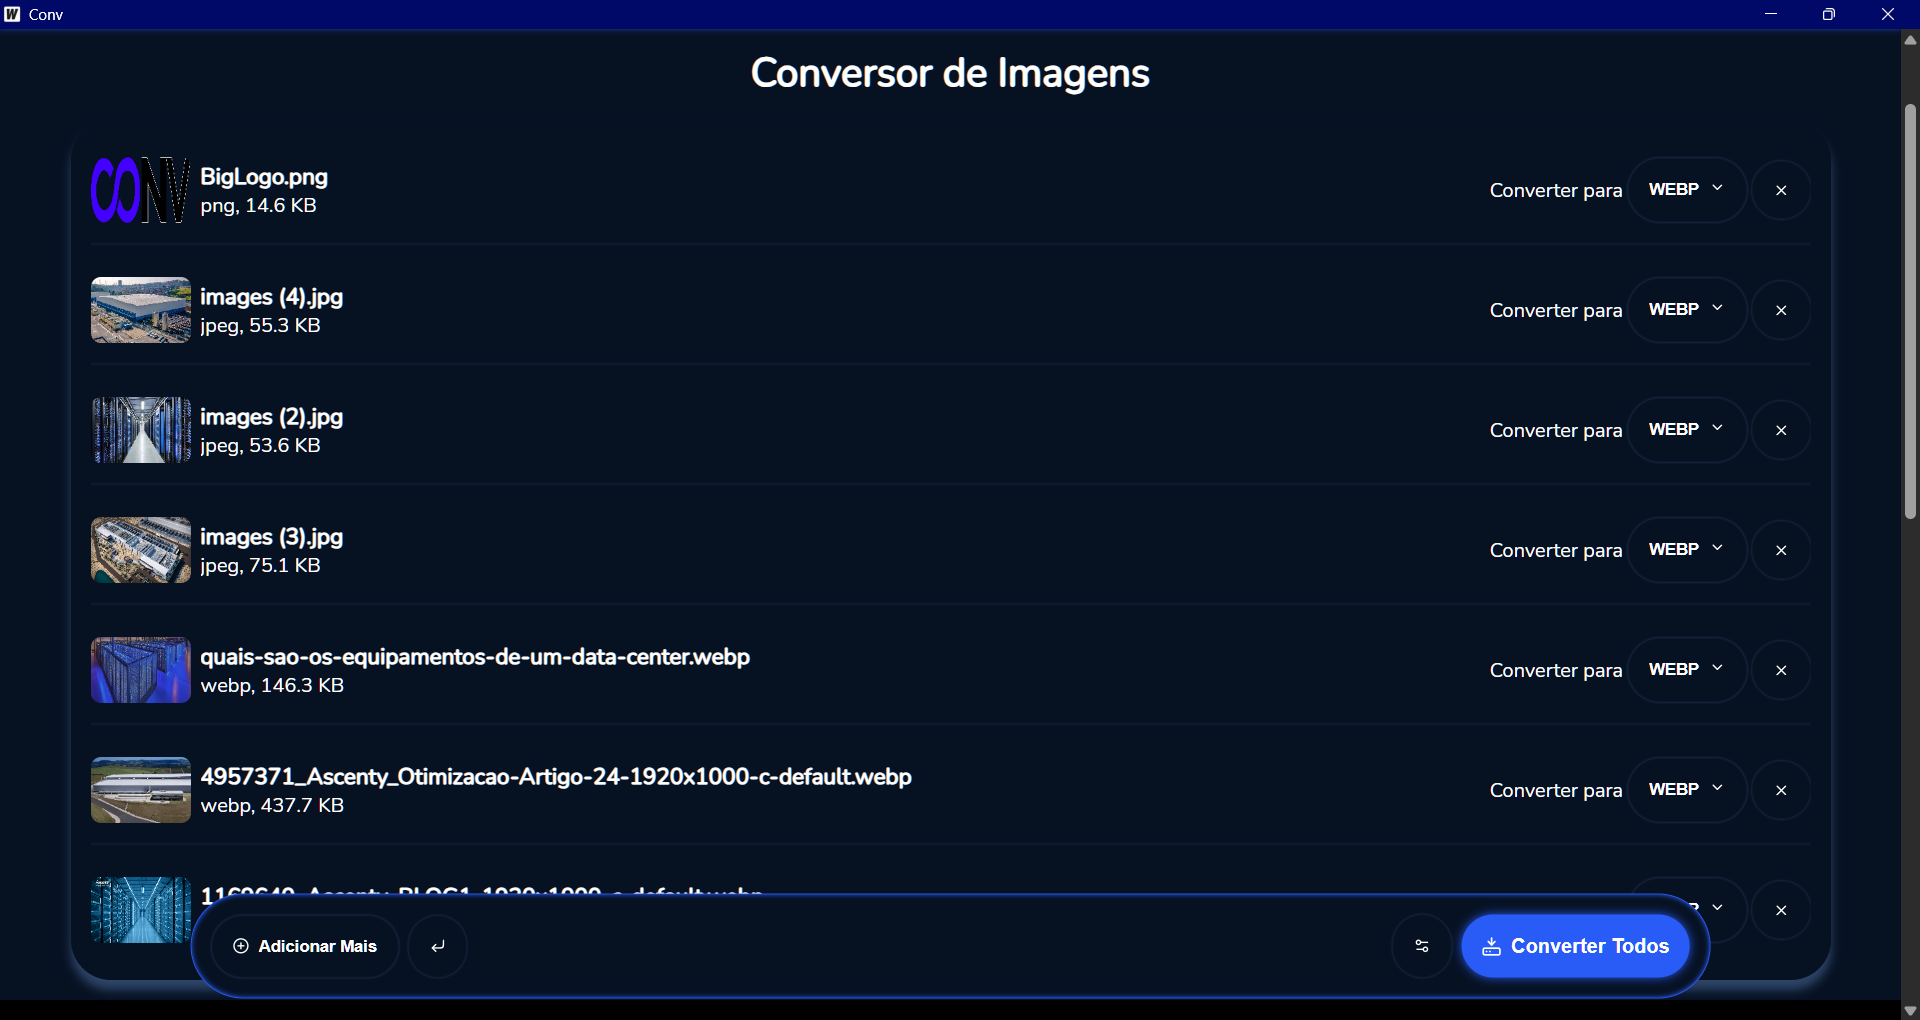
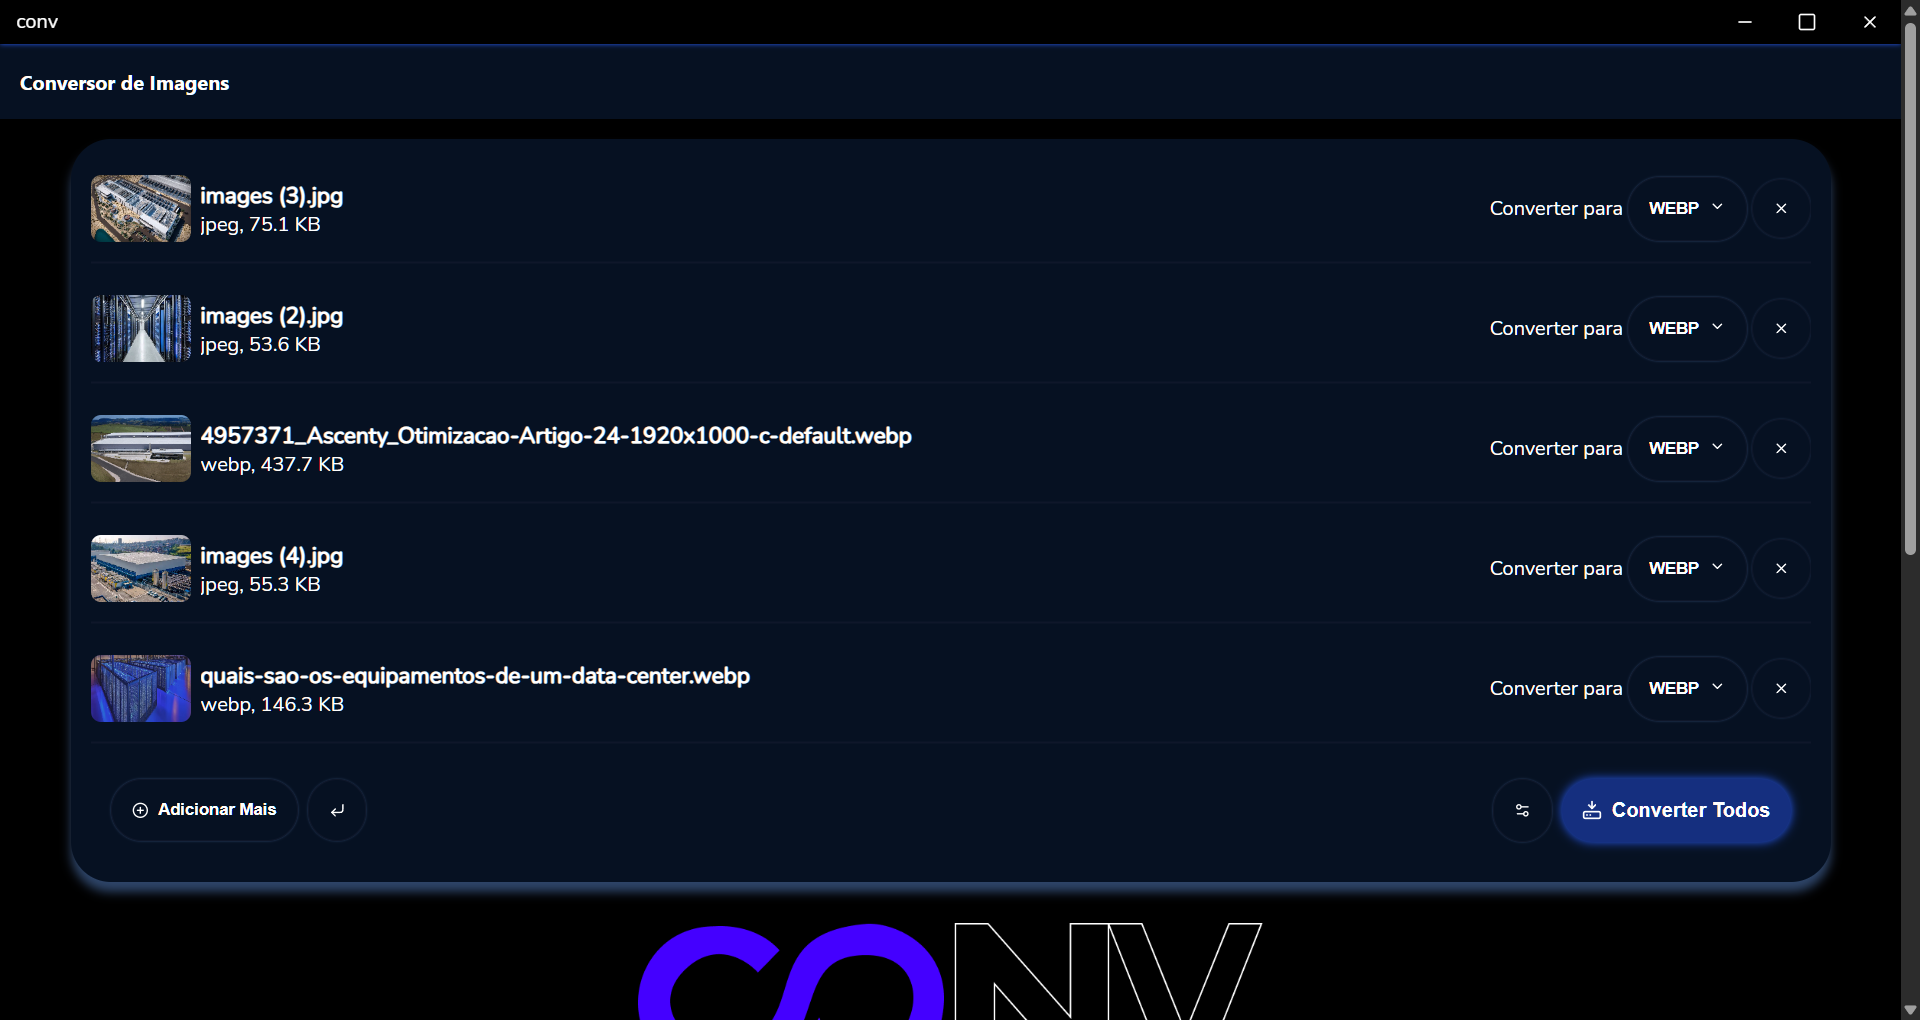
style: troca tamanho de titulo de imagnes do carrossel e troca imagens do carrossel

diff --git a/frontend/src/components/layout/Carousel/carousel.module.css b/frontend/src/components/layout/Carousel/carousel.module.css
@@ -44,9 +44,10 @@
                     justify-content: center;
                     box-sizing: border-box;
                     overflow: hidden;
+                    gap: var(--space-lg);
 
                     h2 {
-                        font-size: 2rem;
+                        font-size: 1rem;
                         font-family: Roboto;
                         box-sizing: border-box;
                     }

diff --git a/frontend/src/components/layout/Footer/Footer.jsx b/frontend/src/components/layout/Footer/Footer.jsx
@@ -54,7 +54,7 @@ const Footer = () => {
             </div>
             <div className={styles.footer_info}>
                 <span className={styles.copyright}>
-                    <a href='#'>ⓒ Copyright</a>
+                    <a href='https://github.com/Eiro8/Conv?tab=readme-ov-file'>ⓒ Copyright</a>
                 </span>
             </div>
         </section>